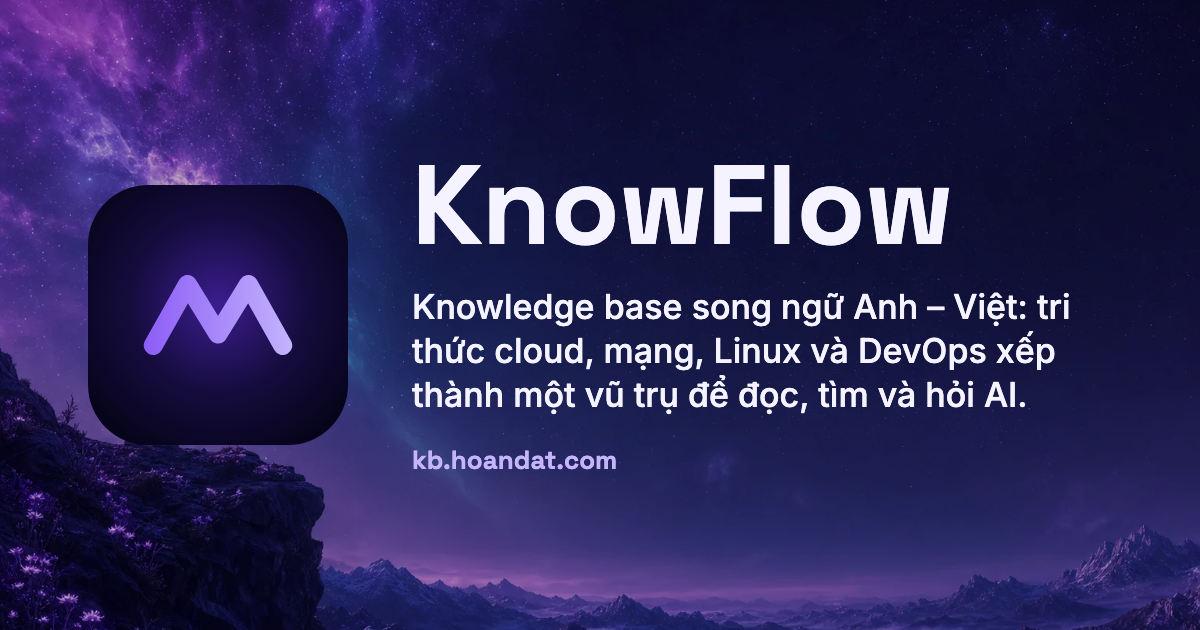
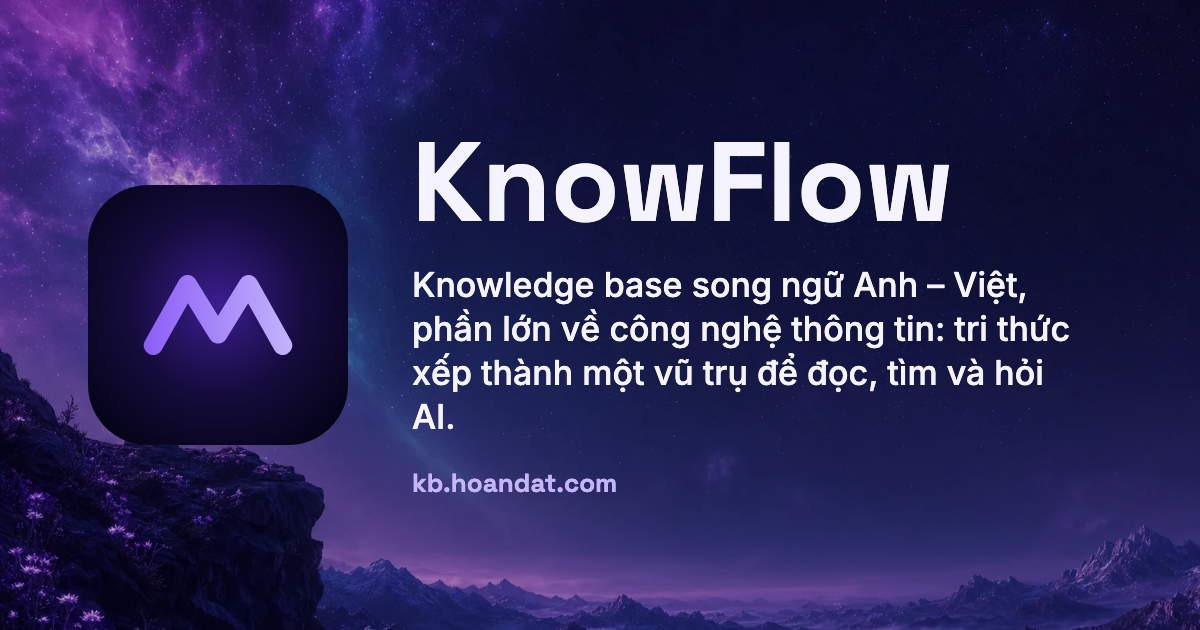
docs(brand): KnowFlow covers every topic, mostly IT, not only cloud

Changed region(s): [[0.3392, 0.4222, 0.8942, 0.6937], [0.3392, 0.2111, 0.8017, 0.3921], [0.3392, 0.7238, 0.5242, 0.7841]]

diff --git a/README.md b/README.md
@@ -3,8 +3,8 @@
 Thư mục repo: `kb-next` (tên hiển thị lấy từ [`brand.config.json`](brand.config.json), không có hậu tố `-next`).
 Chạy tại `https://kb.hoandat.com`, thuộc hệ sinh thái hoandat.com.
 
-Knowledge base công khai, song ngữ Anh – Việt: tri thức cloud, mạng, Linux và DevOps xếp thành một "Universe" để đọc,
-tìm và hỏi AI. Giao diện bám sát bộ mock Universe đã chốt (51 board trong [`design/`](design)).
+Knowledge base công khai, song ngữ Anh – Việt, đủ thể loại nhưng phần lớn về công nghệ thông tin, xếp thành một
+"Universe" để đọc, tìm và hỏi AI. Nguồn đầu tiên là nội dung Học Cloud; về sau AI tìm và bổ sung nội dung từ web. Giao diện bám sát bộ mock Universe đã chốt (51 board trong [`design/`](design)).
 
 **Trạng thái:** nền móng. Đăng nhập bằng tài khoản hoandat.com chạy được (kể cả đăng xuất từ IdP), mọi route đã có
 và hiện nền Universe kèm mã board; nội dung các màn được dựng dần theo mock.
